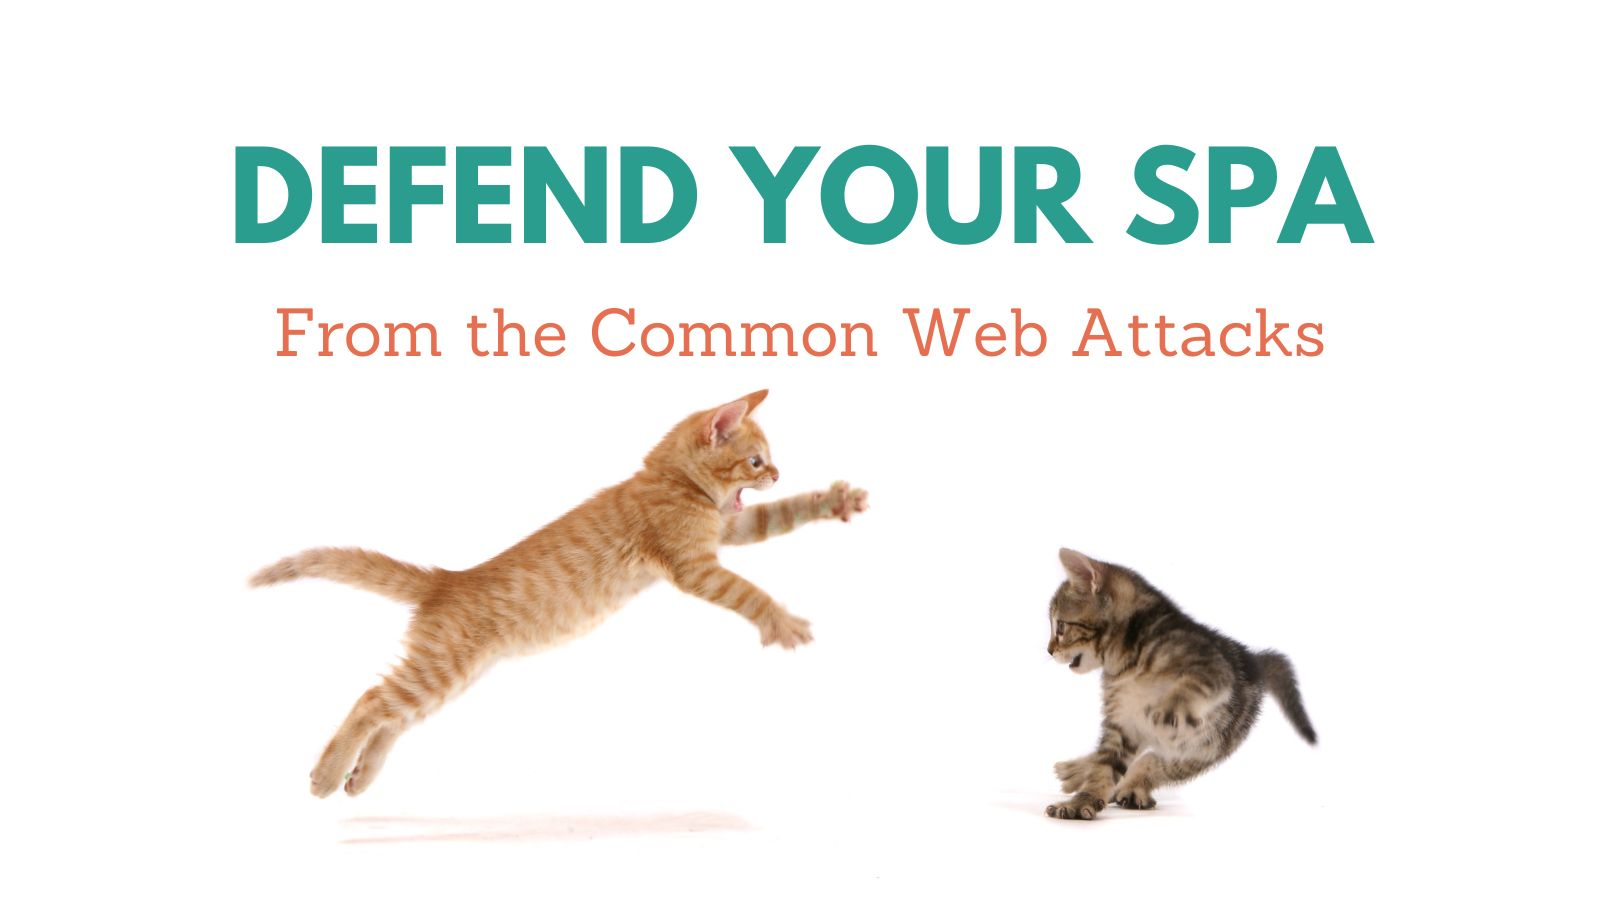
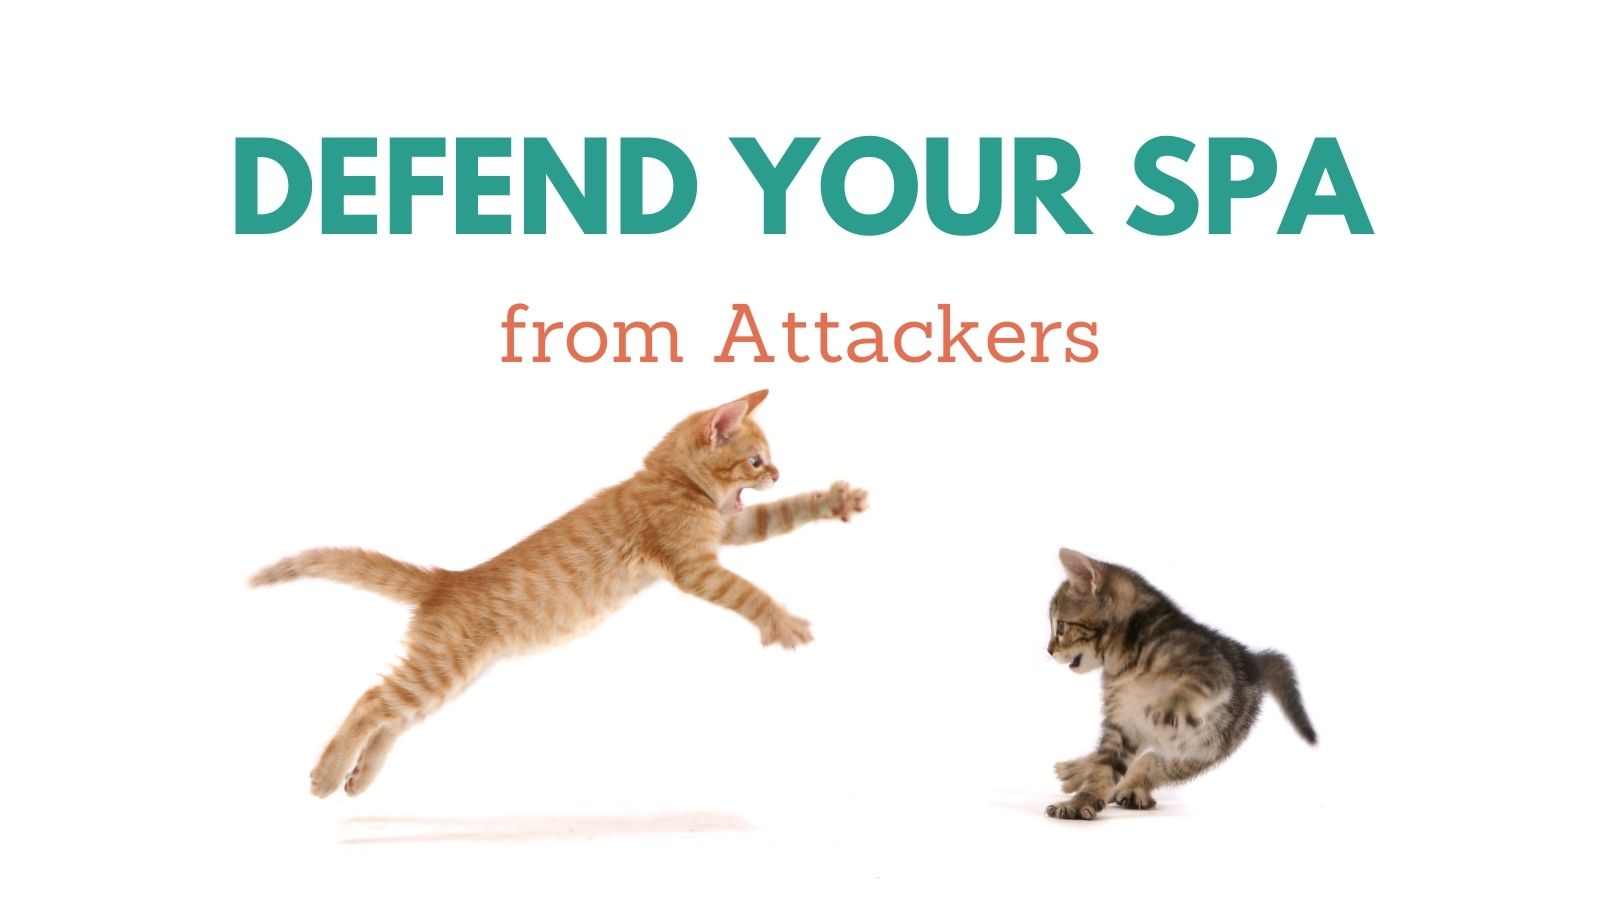
updates and add series list

Changed region(s): [[0.125, 0.1244, 0.875, 0.28], [0.1562, 0.3422, 0.8438, 0.4044]]

diff --git a/_source/_posts/2022-07-08-spa-web-security-csrf-xss.md b/_source/_posts/2022-07-08-spa-web-security-csrf-xss.md
@@ -1,6 +1,6 @@
 ---
 layout: blog_post
-title: "Defend Your SPA From the Common Web Attacks"
+title: "Defend Your SPA from Attackers"
 author: alisa-duncan
 by: advocate
 communities: [security,javascript]
@@ -15,9 +15,12 @@ type: awareness
 
 This is the second post in a series about web security for SPAs. In the last post, we laid the groundwork for thinking about web security and applying security mechanisms to our application stack. We covered the [OWASP Top Ten](https://owasp.org/Top10/), using secure data communication with SSL/TLS, using security headers to help enhance built-in browser mechanisms, keeping dependencies updated, and safeguarding cookies.
 
-<!-- Add table with links to all the posts in the series here -->
+|Posts in the SPA web security series|
+| --- |
+| 1. [Defend Your SPA from Security Woes](/blog/2022/07/06/spa-web-security) |
+| 2. [Defend Your SPA from Attackers](/blog/2022/07/xx/spa-web-securty-csrf-xss) |
 
- This post will use the concepts we introduced to banish some well-known web vulnerabilities.
+ Ready to continue and make your SPA safer? This post will use the concepts we introduced to banish some well-known web vulnerabilities.
 
  {% include toc.md %}
 
@@ -96,7 +99,12 @@ Luckily, there are a lot of browser protections that help us mitigate CSRF. Chec
 ## Learn more about the common web attacks
 Stay tuned for the next post in this series as we dive deeper into CSRF and learn how Angular helps protect against it.
 
-Ready to learn more? Check out out the following resources
+|Posts in the SPA web security series|
+| --- |
+| 1. [Defend Your SPA from Security Woes](/blog/2022/07/06/spa-web-security) |
+| 2. [Defend Your SPA from Attackers](/blog/2022/07/xx/spa-web-securty-csrf-xss) |
+
+Ready to learn more? Check out out the following resources.
 * [A Comparison of Cookies and Tokens for Secure Authentication](/blog/2022/02/08/cookies-vs-tokens)
 * [Defend Your Web Apps from Cross-Site Scripting (XSS)](https://auth0.com/blog/cross-site-scripting-xss/)
 * [OWASP Top Ten 2021: Related Cheat Sheets](https://cheatsheetseries.owasp.org/IndexTopTen.html)
